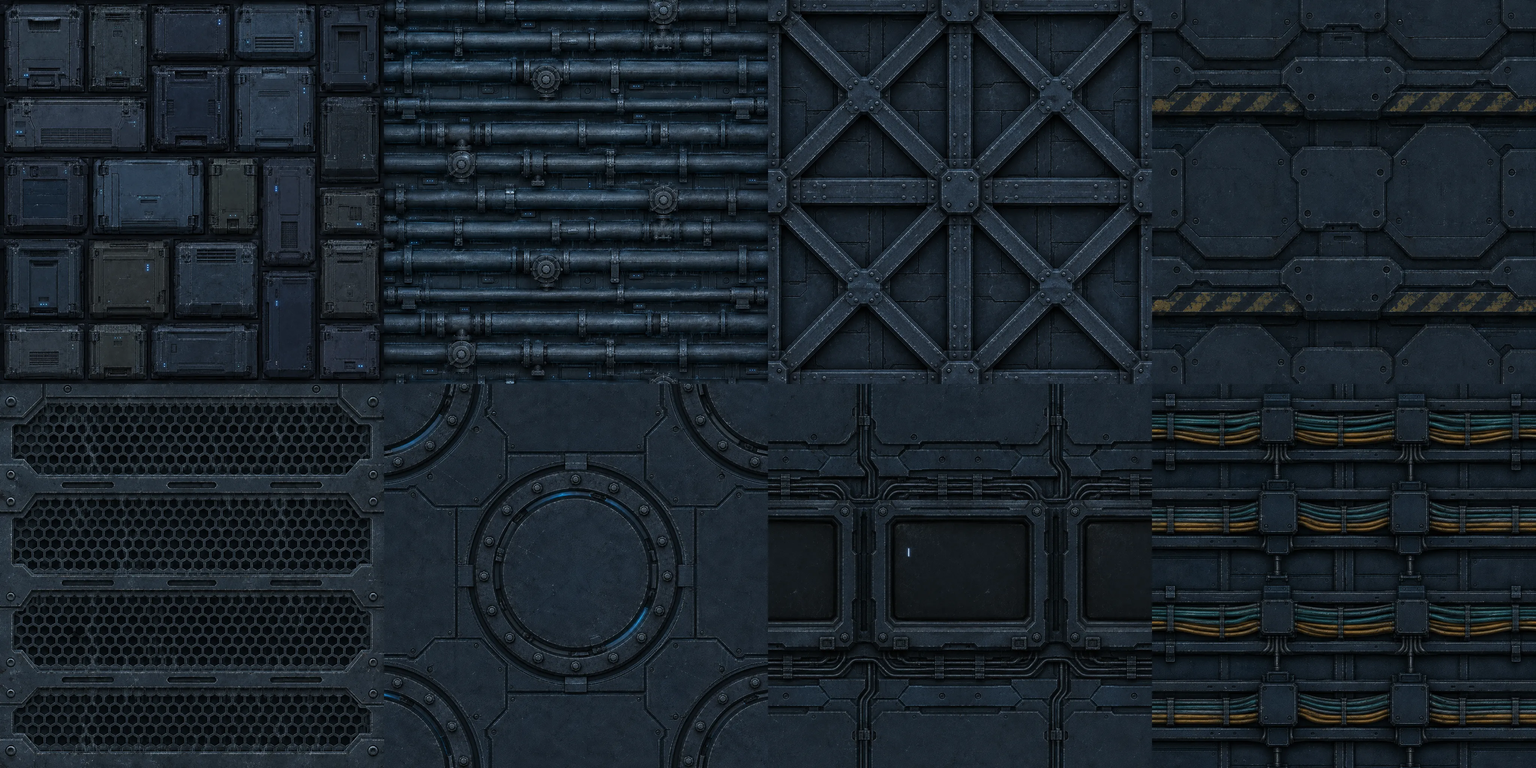
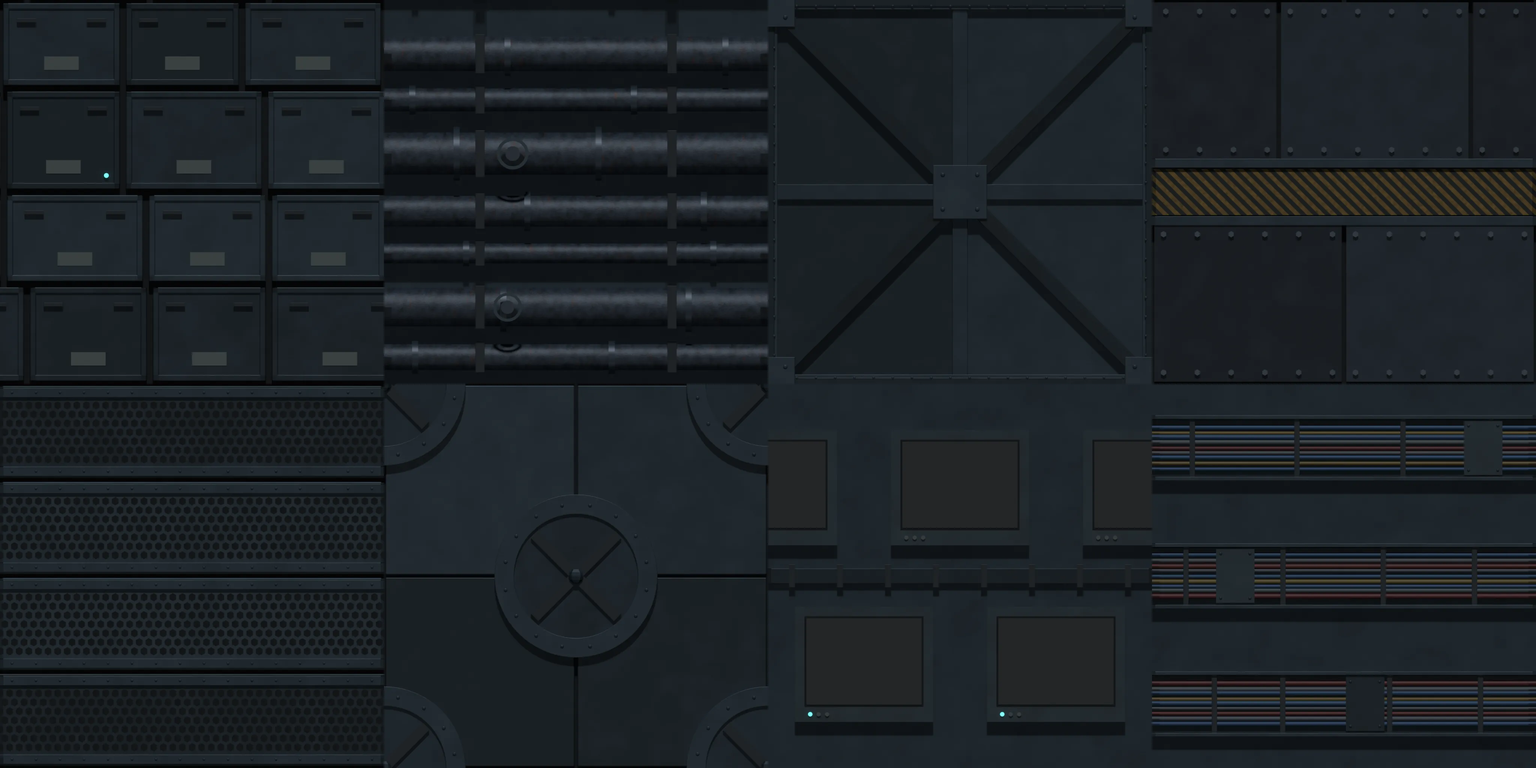
Les huit habillages de paroi refaits dans Blender, dans l'acier de la salle
Symptôme : les habillages que le concepteur pose à l'éditeur (caissons,
conduites, poutrelle, blindage, aération, hublots condamnés, écrans
morts, câbles) étaient les dernières surfaces de la salle sorties du
générateur — huit grains, huit lumières, à côté d'un mur, d'un fond de
cuve et de deux matières désormais dessinés dans l'atelier. 1 056 Ko.

Correctif : tools/images/blender/habillages.py les redessine, mêmes
sujets, dans l'acier et la lumière de surfaces.py dont il reprend les
outils ; chaque case est un carreau raccordable (huit copies, ce qui
traverse un bord en fait le tour), rendu seul, puis le script assemble
l'atlas 4×2 hors de Blender. Deux défauts du premier jet notés en
commentaire : la tôle de fond biseautée traçait un liseré à chaque
répétition (une tôle sans biseau pour ce qui couvre tout le carreau) ;
le faisceau de conduites flottait sur le noir du fond.

Vérification : prepare.py paroi-atlas — luminance 0,13 (0,14 avant),
1 % de chauds (chevrons, câbles ocre et sang ternis), 107 Ko. Raccord
des cases 0,2 à 1,1, sauf les caissons à 4,2 en x : le bord tombe sur
le biseau, continu, d'une caisse — rien à l'œil en 2×2. tsc 0 erreur,
1960 tests, construction OK. Pas encore vu en jeu par le concepteur.

diff --git a/tools/images/blender/habillages.py b/tools/images/blender/habillages.py
@@ -1,0 +1,308 @@
+"""LES HUIT HABILLAGES DE PAROI, refaits dans Blender (13/11) — les cases de
+paroi-atlas.webp (grille 4×2 de 1024², l'ordre du champ `skin` de level.ts) :
+caissons, conduites, poutrelle, blindage / aération, hublots condamnés,
+écrans morts, câbles.
+
+Les anciens sortaient du générateur, chacun dans son grain et sa lumière ;
+depuis que le mur, la seconde paroi, le fond de cuve et les deux matières
+sont dessinés dans l'atelier (surfaces.py), ils juraient avec eux. Ici, les
+mêmes sujets — le concepteur les a choisis à l'éditeur, salle par salle —
+dans le même acier, la même lumière, le même raccord PAR CONSTRUCTION (bruit
+sur le tore, carreau entouré de ses huit copies) : le shader répète chaque
+case toutes les 420 unités, calée sur la boîte qu'elle habille.
+
+Dans Blender :
+    DOSSIER = r'...\\tools\\images\\blender'
+    exec(open(DOSSIER + r'\\habillages.py', encoding='utf-8').read())
+    habillages() ; lance(NOMS, SORTIE, 384)
+puis, hors de Blender, l'assemblage de l'atlas :
+    python -I tools/images/blender/habillages.py <dossier des rendus> [sortie]
+"""
+import math, os, random, sys
+
+DANS_BLENDER = 'bpy' in sys.modules
+if DANS_BLENDER:
+    import bpy
+    from mathutils import Matrix, Vector
+    _src = os.path.join(DOSSIER, 'surfaces.py')
+    exec(compile(open(_src, encoding='utf-8').read(), _src, 'exec'), globals())
+
+# l'ordre des cases : skin 1 à 8, de gauche à droite puis de haut en bas
+NOMS = ['hab-caissons', 'hab-conduites', 'hab-poutrelle', 'hab-blindage',
+        'hab-aeration', 'hab-hublots', 'hab-ecrans', 'hab-cables']
+
+
+def diagonale(at, mat, a, b, large, yf, yb, var=0.0):
+    """une barre droite de a à b (dans le plan du mur), de largeur `large`"""
+    (xa, za), (xb, zb) = a, b
+    dx, dz = xb - xa, zb - za
+    L = math.hypot(dx, dz)
+    cx, cz = (xa + xb) / 2, (za + zb) / 2
+    rot = Matrix.Rotation(-math.atan2(dz, dx), 4, 'Y')
+    at.boite(mat, cx - L / 2, cx + L / 2, cz - large / 2, cz + large / 2, yf, yb, var, rot=rot)
+
+
+# ---------------------------------------------------------------- 1 caissons
+def caissons(at, rng):
+    """des caisses de stockage empilées en quinconce, chacune sa teinte d'usure,
+    un cadre, deux poignées, une étiquette pâle — parfois un voyant"""
+    rangees = [(0.0, 0.26), (0.26, 0.5), (0.5, 0.77), (0.77, 1.0)]
+    for i, (z0, z1) in enumerate(rangees):
+        coutures = [(0.07 + 0.31 * i) % 1, (0.39 + 0.31 * i) % 1, (0.70 + 0.31 * i) % 1]
+        for (x0, x1) in rangee(coutures):
+            var = rng.uniform(-1, 1)
+            g = 0.008
+            a, b, c, d = x0 + g, x1 - g, z0 + g, z1 - g
+            yf = rng.choice((0.0, -0.004, -0.008))
+            at.boite('panneau', a, b, c, d, yf, FOND_Y, var)
+            m = 0.016
+            for (p, q, r, s) in ((a, b, d - m, d), (a, b, c, c + m), (a, a + m, c, d), (b - m, b, c, d)):
+                at.boite('panneau', p, q, r, s, yf - 0.005, yf, var)
+            mx = (a + b) / 2
+            for sx in (-1, 1):
+                hx = mx + sx * (b - a) * 0.3
+                at.boite('lame', hx - 0.025, hx + 0.025, d - 0.05, d - 0.04, yf - 0.012, yf - 0.002, 0)
+            at.boite('etiquette', mx - 0.045, mx + 0.045, c + 0.04, c + 0.075, yf - 0.0012, yf, 0)
+            if rng.random() < 0.25:
+                at.cylindre('voyant', b - 0.035, c + 0.035, 0.006, yf - 0.008, yf, 0, seg=20)
+
+
+# --------------------------------------------------------------- 2 conduites
+TUYAUX = [(0.07, 0.034), (0.2, 0.05), (0.34, 0.026), (0.45, 0.04), (0.6, 0.055), (0.74, 0.03), (0.86, 0.045)]
+
+
+def conduites_h(at, rng):
+    """un faisceau de conduites couchées, de diamètres différents, qui font
+    le tour du carreau ; des brides, une vanne, des colliers sur deux rails"""
+    # une tôle derrière : sur le noir du fond, le faisceau flottait (essai 1)
+    at.boite('tole', 0.0, 1.0, 0.0, 1.0, 0.0, FOND_Y, 0)
+    for k, (z, r) in enumerate(TUYAUX):
+        y = -r - 0.004
+        at.fut('tuyau', -0.02, 1.02, r, 0, y, z)
+        for xb in (rng.uniform(0.05, 0.45), rng.uniform(0.55, 0.95)):
+            at.tube('bride', (xb - 0.008, y, z), (xb + 0.008, y, z), r * 1.28, seg=40)
+        if k % 3 == 1:
+            xv = rng.uniform(0.2, 0.8)
+            at.tube('bride', (xv, y - r, z), (xv, y - r - 0.03, z), r * 0.35, seg=24)
+            at.anneau('volant', xv, z, r * 0.75, r * 0.6, y - r - 0.036, y - r - 0.03, 0, seg=40)
+    for xr in (0.25, 0.75):
+        at.boite('rail', xr - 0.02, xr + 0.02, -0.01, 1.01, 0.0, FOND_Y, 0)
+        for (z, r) in TUYAUX:
+            at.boite('lame', xr - 0.012, xr + 0.012, z - r - 0.006, z + r + 0.006, -2 * r - 0.01, -0.002, 0)
+
+
+# -------------------------------------------------------------- 3 poutrelle
+def poutrelle(at, rng):
+    """un treillis riveté : un cadre de profilés sur les bords (partagés avec
+    les copies voisines), une croix de Saint-André, un gousset aux nœuds"""
+    l = 0.05
+    at.boite('plat', -l / 2, l / 2, -0.01, 1.01, -0.02, -0.006, 0.3)
+    at.boite('plat', -0.01, 1.01, -l / 2, l / 2, -0.02, -0.006, 0.3)
+    at.boite('rail', -l / 2 + 0.008, l / 2 - 0.008, -0.01, 1.01, -0.024, -0.02, 0.3)
+    at.boite('rail', -0.01, 1.01, -l / 2 + 0.008, l / 2 - 0.008, -0.024, -0.02, 0.3)
+    # la traverse et le montant du milieu, plus légers
+    at.boite('plat', 0.48, 0.52, -0.01, 1.01, -0.014, -0.004, 0)
+    at.boite('plat', -0.01, 1.01, 0.48, 0.52, -0.014, -0.004, 0)
+    for (a, b) in (((0.0, 0.0), (0.5, 0.5)), ((0.5, 0.5), (1.0, 1.0)), ((0.0, 1.0), (0.5, 0.5)), ((0.5, 0.5), (1.0, 0.0))):
+        diagonale(at, 'rail', a, b, 0.038, -0.03, -0.012, -0.2)
+    # les goussets : au centre et au coin (le coin est partagé : quatre quarts)
+    for (x, z) in ((0.5, 0.5), (0.0, 0.0)):
+        at.boite('plat', x - 0.07, x + 0.07, z - 0.07, z + 0.07, -0.036, -0.03, 0.5)
+        for (dx, dz) in ((-1, -1), (1, -1), (1, 1), (-1, 1)):
+            at.dome('rivet', x + dx * 0.045, z + dz * 0.045, 0.006, -0.036, 0.5)
+    for k in range(20):
+        t = (k + 0.5) / 20
+        for (x, z) in ((-0.016, t), (0.016, t), (t, -0.016), (t, 0.016)):
+            at.dome('rivet', x, z, 0.0035, -0.024, 0.3)
+    # derrière, une tôle de fond à grandes plaques
+    for (x0, x1) in ((0.0, 0.5), (0.5, 1.0)):
+        for (z0, z1) in ((0.0, 0.5), (0.5, 1.0)):
+            at.boite('panneau', x0 + 0.004, x1 - 0.004, z0 + 0.004, z1 - 0.004, 0.0, FOND_Y, rng.uniform(-1, 1))
+
+
+# --------------------------------------------------------------- 4 blindage
+def blindage(at, rng):
+    """de lourdes plaques boulonnées et une bande de chevrons de danger qui
+    traverse le carreau entre deux cornières"""
+    for (z0, z1) in ((0.0, 0.42), (0.58, 1.0)):
+        dec = 0.0 if z0 == 0 else 0.33
+        for (x0, x1) in rangee([dec, (dec + 0.5) % 1]):
+            g = 0.006
+            var = rng.uniform(-1, 1)
+            at.boite('blinde', x0 + g, x1 - g, z0 + g, z1 - g, -0.012, FOND_Y, var)
+            n = 6
+            for i in range(n):
+                x = x0 + 0.03 + (x1 - x0 - 0.06) * i / (n - 1)
+                for z in (z0 + 0.03, z1 - 0.03):
+                    at.cylindre('ecrou', x, z, 0.008, -0.02, -0.012, var, seg=6)
+    at.boite('rayures', -0.01, 1.01, 0.44, 0.56, -0.006, FOND_Y, 0)
+    for z in (0.425, 0.575):
+        at.boite('plat', -0.01, 1.01, z - 0.012, z + 0.012, -0.016, FOND_Y, 0.2)
+
+
+# --------------------------------------------------------------- 5 aération
+def aeration(at, rng):
+    """quatre bandes de tôle perforée en trous hexagonaux, serties entre des
+    plats rivetés — l'air passe, on voit le noir derrière"""
+    bandes = [(0.035, 0.215), (0.285, 0.465), (0.535, 0.715), (0.785, 0.965)]
+    for (z0, z1) in bandes:
+        at.boite('panneau', -0.01, 1.01, z0 - 0.03, z1 + 0.03, 0.0, FOND_Y, rng.uniform(-1, 1))
+        at.boite('plat', -0.01, 1.01, z1, z1 + 0.025, -0.008, 0.0, 0.2)
+        at.boite('plat', -0.01, 1.01, z0 - 0.025, z0, -0.008, 0.0, 0.2)
+        for k in range(16):
+            at.dome('rivet', (k + 0.5) / 16, z1 + 0.0125, 0.0035, -0.008, 0.2)
+            at.dome('rivet', (k + 0.5) / 16, z0 - 0.0125, 0.0035, -0.008, 0.2)
+        # les trous : un pas qui divise 1 (le raccord), rangées décalées
+        pas = 1 / 40
+        h = pas * math.sqrt(3) / 2
+        nz = int((z1 - z0 - 0.01) / h)
+        for j in range(nz):
+            z = z0 + 0.008 + (j + 0.5) * (z1 - z0 - 0.016) / nz
+            for i in range(40):
+                x = (i + (0.5 if j % 2 else 0.0)) * pas
+                at.cylindre('trou', x, z, pas * 0.4, -0.001, 0.002, 0, seg=6)
+
+
+# --------------------------------------------------------- 6 hublots condamnés
+def hublot_condamne(at, x, z, r, rng):
+    at.anneau('plat', x, z, r * 1.25, r * 0.95, -0.02, 0.004, 0.3, seg=72)
+    at.boulons(x, z, r * 1.1, 16, -0.02, rr=0.005, var=0.3, phase=0.5)
+    # la tape boulonnée qui le condamne, et deux fers en croix
+    at.disque('panneau', x, z, r * 0.97, -0.012, 0.0, rng.uniform(-1, 1), seg=72)
+    for a in (math.pi / 4, -math.pi / 4):
+        diagonale(at, 'lame', (x - r * 0.9 * math.cos(a), z - r * 0.9 * math.sin(a)),
+                  (x + r * 0.9 * math.cos(a), z + r * 0.9 * math.sin(a)), r * 0.16, -0.022, -0.012)
+    at.dome('rivet', x, z, r * 0.12, -0.024, 0)
+    # un liseré de lumière froide filtre encore sous la tape
+    at.anneau('fuite', x, z, r * 0.98, r * 0.955, -0.0125, -0.011, 0, seg=72)
+
+
+def hublots(at, rng):
+    """un hublot au centre, un au coin (partagé en quatre quarts par les
+    copies) : condamnés, tape boulonnée et fers en croix"""
+    for (x0, x1) in ((0.0, 0.5), (0.5, 1.0)):
+        for (z0, z1) in ((0.0, 0.5), (0.5, 1.0)):
+            at.boite('panneau', x0 + 0.004, x1 - 0.004, z0 + 0.004, z1 - 0.004, 0.0, FOND_Y, rng.uniform(-1, 1))
+    hublot_condamne(at, 0.5, 0.5, 0.17, rng)
+    hublot_condamne(at, 0.0, 0.0, 0.17, rng)
+
+
+# ---------------------------------------------------------- 7 écrans morts
+def ecrans(at, rng):
+    """deux rangées d'écrans de contrôle éteints dans leurs boîtiers, une
+    goulotte entre elles ; un voyant de veille çà et là"""
+    at.boite('tole', 0.0, 1.0, 0.0, 1.0, 0.0, FOND_Y, 0)
+    for (zc, dec) in ((0.27, 0.0), (0.73, 0.25)):
+        for k in range(2):
+            xc = (dec + 0.25 + k * 0.5) % 1
+            w, h = 0.36, 0.3
+            var = rng.uniform(-1, 1)
+            at.boite('boitier', xc - w / 2, xc + w / 2, zc - h / 2, zc + h / 2, -0.03, 0.0, var)
+            at.boite('fond', xc - w / 2 + 0.025, xc + w / 2 - 0.025, zc - h / 2 + 0.04, zc + h / 2 - 0.025, -0.031, -0.028, 0)
+            at.boite('ecran', xc - w / 2 + 0.03, xc + w / 2 - 0.03, zc - h / 2 + 0.045, zc + h / 2 - 0.03, -0.032, -0.031, 0)
+            for i in range(3):
+                at.cylindre('eteint' if i or rng.random() < 0.5 else 'voyant', xc - w / 2 + 0.04 + i * 0.022, zc - h / 2 + 0.02,
+                            0.0055, -0.034, -0.03, 0, seg=20)
+    at.boite('rail', -0.01, 1.01, 0.48, 0.52, -0.016, 0.0, 0)
+    for k in range(8):
+        x = (k + 0.5) / 8
+        at.boite('lame', x - 0.008, x + 0.008, 0.47, 0.53, -0.02, -0.014, 0)
+
+
+# ------------------------------------------------------------------ 8 câbles
+COULEURS_CABLES = ['cable-ocre', 'cable-bleu', 'cable-gris', 'cable-sang', 'cable-gris', 'cable-bleu']
+
+
+def cables(at, rng):
+    """trois chemins de câbles : un faisceau de câbles de couleur couchés dans
+    une gouttière, des colliers, une boîte de jonction"""
+    at.boite('tole', 0.0, 1.0, 0.0, 1.0, 0.0, FOND_Y, 0)
+    for zc in (1 / 6, 0.5, 5 / 6):
+        at.boite('rail', -0.01, 1.01, zc - 0.075, zc + 0.075, -0.004, 0.0, 0)
+        at.boite('plat', -0.01, 1.01, zc + 0.075, zc + 0.085, -0.03, 0.0, 0.2)
+        at.boite('plat', -0.01, 1.01, zc - 0.085, zc - 0.075, -0.03, 0.0, 0.2)
+        n = 9
+        for i in range(n):
+            z = zc - 0.06 + 0.12 * (i + 0.5) / n + rng.uniform(-0.002, 0.002)
+            r = rng.uniform(0.0045, 0.0068)
+            at.fut(COULEURS_CABLES[(i + int(zc * 7)) % len(COULEURS_CABLES)], -0.02, 1.02, r, 0, -0.006 - r, z, seg=16)
+        for k in range(4):
+            x = (k + 0.5) / 4 + rng.uniform(-0.04, 0.04)
+            at.boite('lame', x - 0.007, x + 0.007, zc - 0.08, zc + 0.08, -0.024, -0.002, 0)
+        xj = rng.uniform(0.1, 0.9)
+        at.boite('boitier', xj - 0.05, xj + 0.05, zc - 0.07, zc + 0.07, -0.034, -0.004, rng.uniform(-1, 1))
+        for (dx, dz) in ((-1, -1), (1, -1), (1, 1), (-1, 1)):
+            at.dome('rivet', xj + dx * 0.038, zc + dz * 0.058, 0.004, -0.034, 0)
+
+
+def matieres_habillages():
+    mats = matieres_biome()
+    mats['panneau'] = mat_brosse('hab-acier', (0x1e, 0x2a, 0x32), (0x3e, 0x4e, 0x58), 71, brosse=0.08, rouille=(0x2a, 0x30, 0x2e))
+    mats['rivet'] = mats['panneau']
+    # la même tôle SANS biseau, pour ce qui couvre tout le carreau : biseautée
+    # au bord, elle traçait un liseré à chaque répétition (essai 1)
+    mats['tole'] = mats['panneau']
+    mats['fond'] = mat_simple('fond', (0x04, 0x06, 0x08), rug=0.9)
+    mats['trou'] = mats['fond']
+    mats['rail'] = mat_brosse('hab-rail', (0x16, 0x20, 0x26), (0x2e, 0x3c, 0x44), 73, brosse=0.05)
+    mats['plat'] = mat_brosse('hab-plat', (0x22, 0x2e, 0x36), (0x44, 0x54, 0x5e), 75, brosse=0.08)
+    mats['blinde'] = mat_brosse('hab-blinde', (0x1a, 0x22, 0x2a), (0x38, 0x44, 0x4e), 77, brosse=0.03, rouille=(0x30, 0x2c, 0x26))
+    mats['ecrou'] = mat_simple('ecrou', (0x50, 0x58, 0x60), rug=0.45, metal=0.6)
+    mats['bride'] = mat_simple('bride', (0x34, 0x3e, 0x48), rug=0.45, metal=0.35)
+    mats['volant'] = mat_simple('volant', (0x2a, 0x3c, 0x44), rug=0.5)
+    mats['boitier'] = mat_brosse('hab-boitier', (0x24, 0x2e, 0x34), (0x40, 0x4c, 0x54), 79, brosse=0.04)
+    mats['etiquette'] = mat_simple('etiquette', (0x5a, 0x62, 0x5e), rug=0.8)
+    mats['voyant'] = mat_simple('voyant', (0x10, 0x40, 0x40), rug=0.3, emission=(0x5a, 0xf0, 0xe0), force=2.0)
+    mats['eteint'] = mat_simple('eteint', (0x0c, 0x18, 0x1a), rug=0.3)
+    # l'écran éteint : mat, sinon il renvoie le soleil de face (le fond de
+    # cuve, essai 1) ; un rien bleuté, la dalle d'un écran mort
+    mats['ecran'] = mat_simple('ecran', (0x06, 0x0c, 0x12), rug=0.4)
+    mats['fuite'] = mat_simple('fuite', (0x0a, 0x30, 0x38), rug=0.6, emission=(0x40, 0xb0, 0xc8), force=0.6)
+    # les câbles : des couleurs de câblage, TERNIES (charte : la palette est
+    # froide, l'ambre réservé à ce qui luit)
+    mats['cable-ocre'] = mat_simple('cable-ocre', (0x6a, 0x58, 0x26), rug=0.6)
+    mats['cable-bleu'] = mat_simple('cable-bleu', (0x24, 0x48, 0x6a), rug=0.6)
+    mats['cable-gris'] = mat_simple('cable-gris', (0x48, 0x4e, 0x54), rug=0.6)
+    mats['cable-sang'] = mat_simple('cable-sang', (0x5a, 0x22, 0x20), rug=0.6)
+    return mats
+
+
+BATIS = [caissons, conduites_h, poutrelle, blindage, aeration, hublots, ecrans, cables]
+
+
+def lisses(C, mats):
+    """ce qui est rond (conduites, câbles, brides) se lisse : en facettes, un
+    tuyau montrait ses arêtes au reflet"""
+    for ob in C.objects:
+        if any(ob.name.endswith(s) for s in ('tuyau', 'bride', 'volant')) or '-cable-' in ob.name:
+            ob.data.polygons.foreach_set('use_smooth', [True] * len(ob.data.polygons))
+            try:
+                ob.data.set_sharp_from_angle(angle=math.radians(40))
+            except Exception:
+                pass
+
+
+def habillages():
+    vide_scene()
+    PIECES.clear()
+    sc = bpy.context.scene
+    mats = matieres_habillages()
+    for nom, bati in zip(NOMS, BATIS):
+        carreau(sc, mats, nom, bati, extra=lisses)
+    lumiere_camera(sc)
+    sc.cycles.device = 'GPU'
+
+
+def assemble(dossier, sortie):
+    """les huit rendus en un atlas 4×2 (hors de Blender, avec pillow)"""
+    from PIL import Image
+    atlas = Image.new('RGB', (4096, 2048))
+    for i, nom in enumerate(NOMS):
+        im = Image.open(os.path.join(dossier, nom + '.png')).convert('RGB').resize((1024, 1024), Image.LANCZOS)
+        atlas.paste(im, ((i % 4) * 1024, (i // 4) * 1024))
+    atlas.save(sortie)
+
+
+if __name__ == '__main__' and not DANS_BLENDER:
+    d = sys.argv[1]
+    assemble(d, sys.argv[2] if len(sys.argv) > 2 else os.path.join(d, 'paroi-atlas.png'))

diff --git a/docs/assets-ia.md b/docs/assets-ia.md
@@ -1141,6 +1141,16 @@ bright neon`
 
 ## 24. L'ATLAS DES PAROIS N° 2 — les biomes (phase 2)
 
+> ✅ **L'atlas n° 1 est redessiné dans Blender le 13/11**
+> (`tools/images/blender/habillages.py`). Ce sont les mêmes huit sujets, dans l'acier
+> et la lumière du mur et du fond de cuve. Chaque case est un carreau raccordable,
+> rendu seul ; le script assemble ensuite l'atlas hors de Blender
+> (`python -I tools/images/blender/habillages.py <rendus> masters/images/paroi-atlas.png`).
+> Mesures : luminance 0,13 (0,14 avant), 1 % de pixels chauds (les chevrons, les câbles ocre
+> et sang), 107 Ko (1 056 avant). Les cases mesurent 0,2 à 1,1 au raccord, sauf les
+> caissons (4,2 en x) : le bord tombe sur le biseau continu d'une caisse, et à l'œil
+> en 2×2 rien ne se voit. L'atlas n° 2 ci-dessous se fera dans le même atelier.
+
 L'atlas livré (`paroi-atlas.webp`, huit habillages : caissons, conduites,
 poutrelle, blindage, aération, hublot, écrans, câbles) est **neutre** : la
 même paroi de la chambre froide à la cuve thermique. La carte de la station
